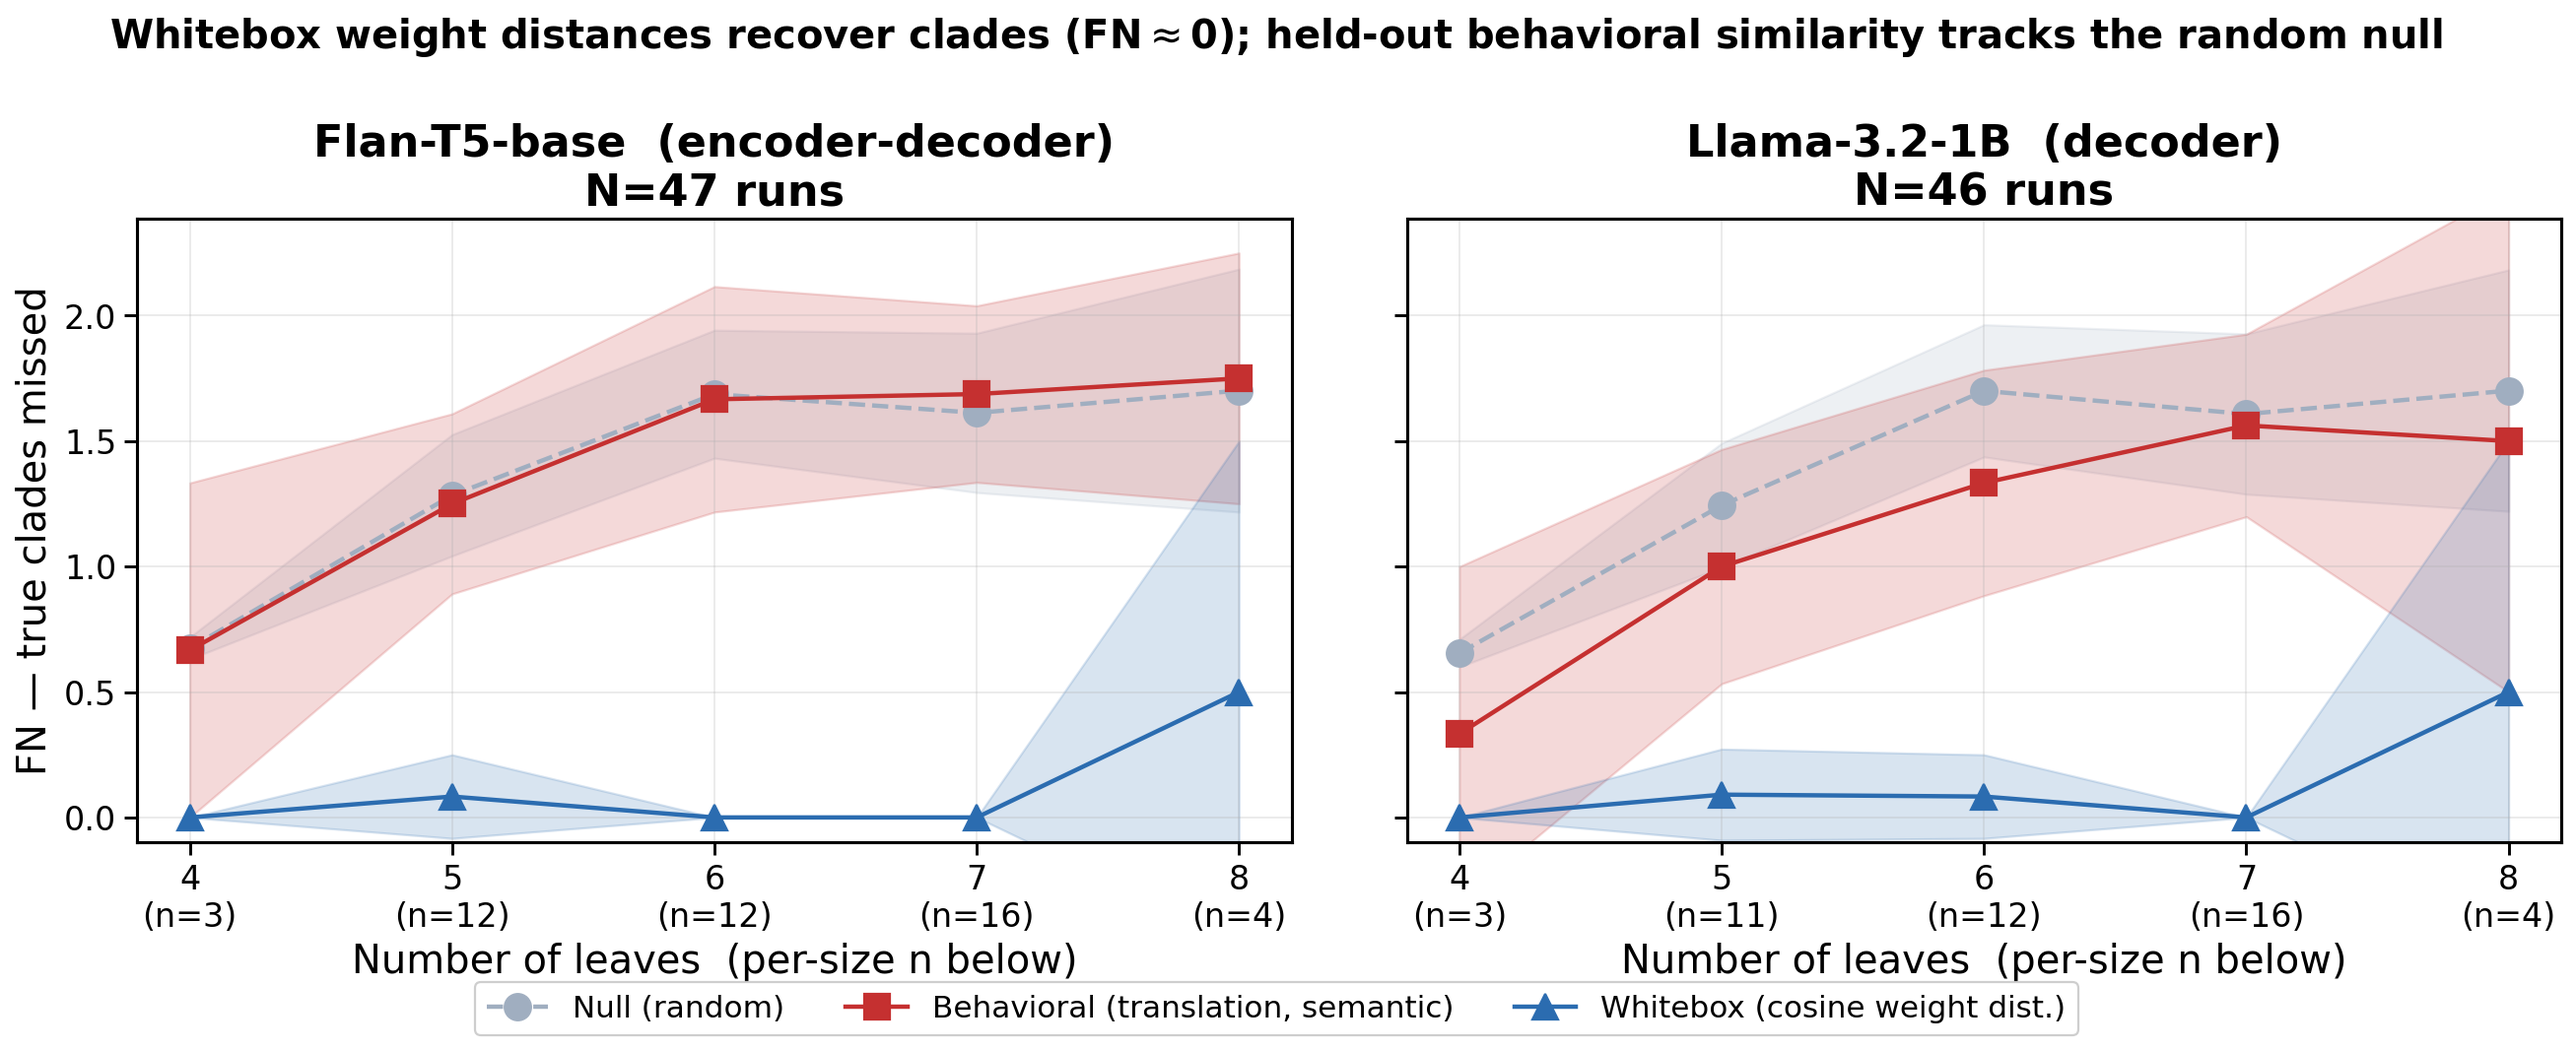
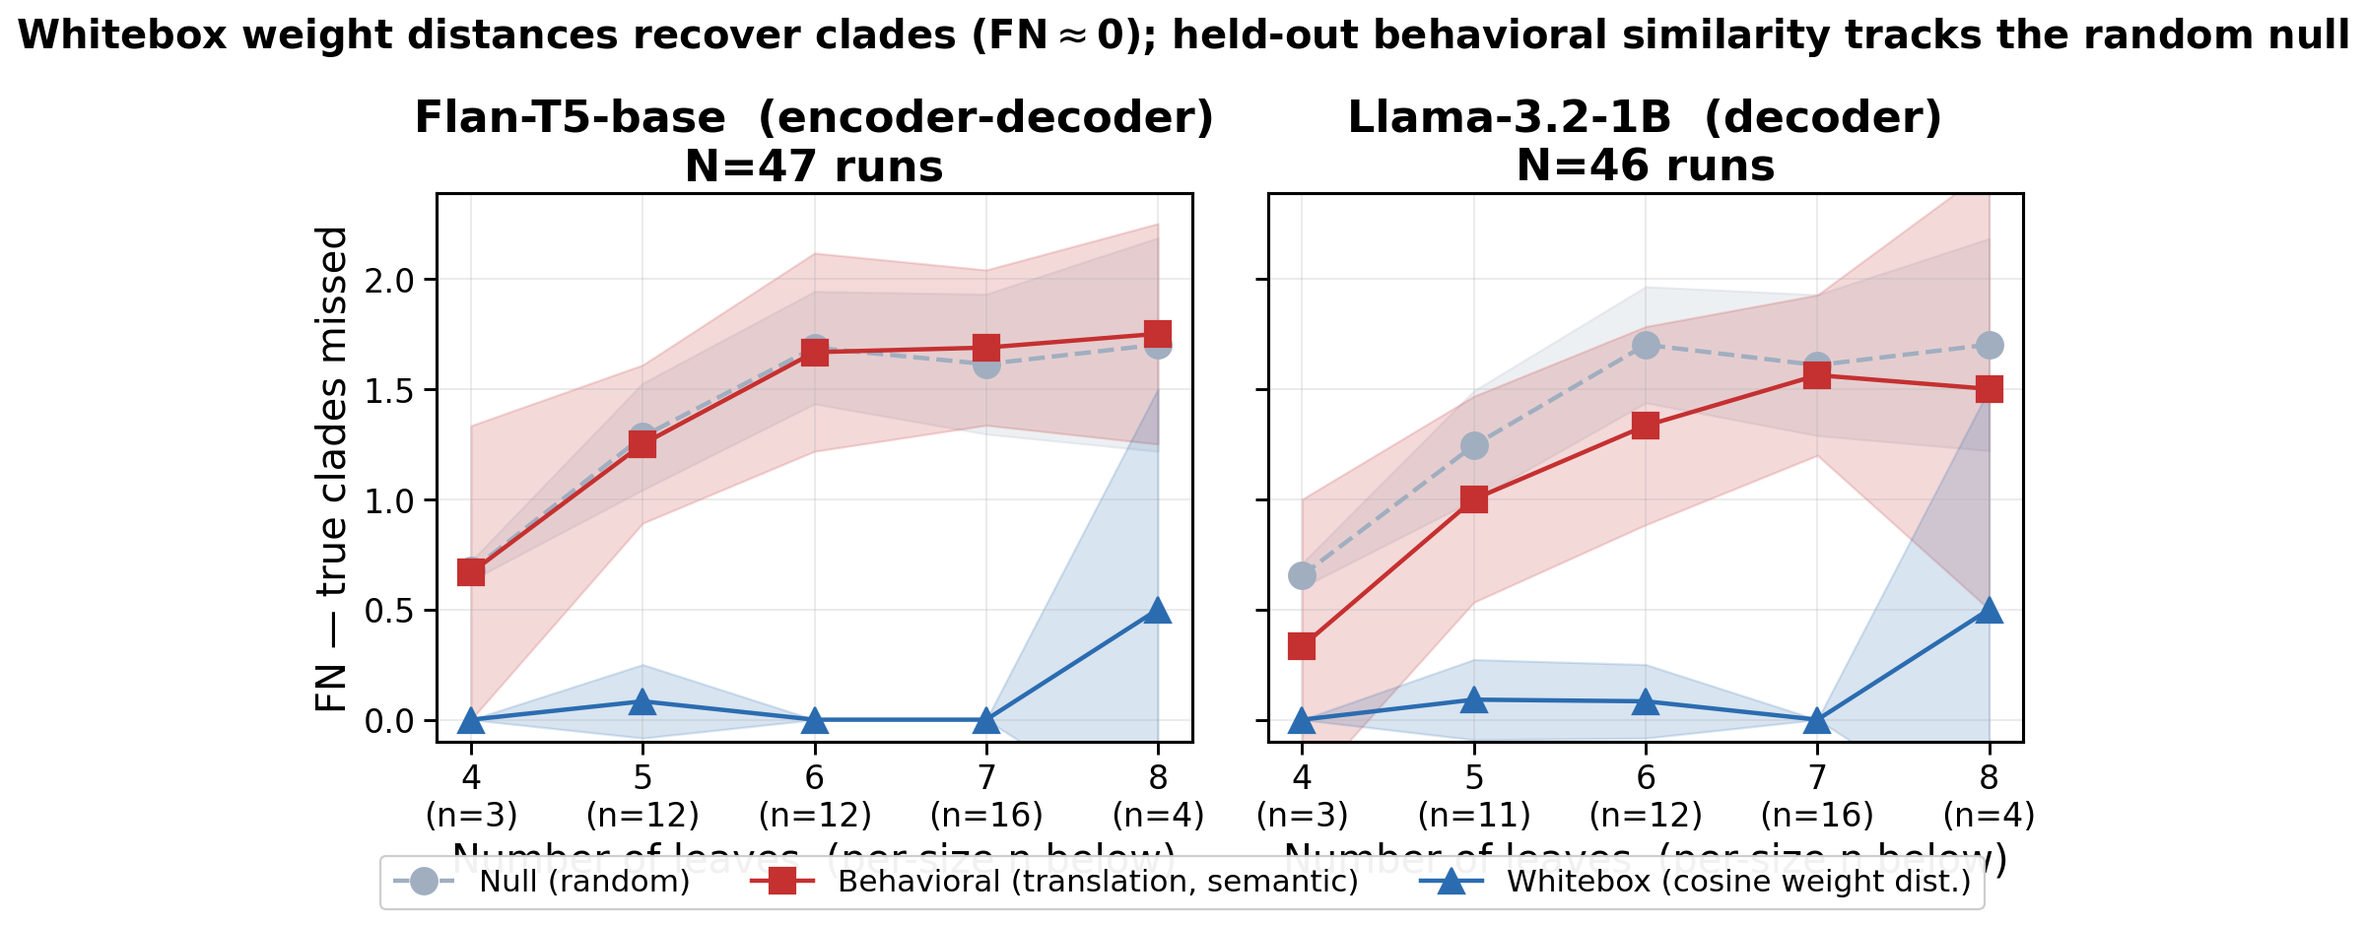
Resize/restyle figures for column-width legibility; remove SNR section; fix layertrace ref

diff --git a/paper_v2.tex b/paper_v2.tex
@@ -652,9 +652,9 @@ full weight    & 282 tensors & \multicolumn{5}{l}{FN $0.33 \pm 0.19$ (reference)
     so that neighbor-joining provably recovers a split once the margin exceeds $1$ (Atteson, 1999;
     dashed line). The margin both separates the regimes and supplies the \emph{within}-regime gradient
     that coherence cannot, since $c$ saturates near $0.99$ across the entire recovering cluster: rank
-    correlation with recovery is $\rho=+0.90$ for the margin versus $+0.77$ for coherence. Stars denote
-    full fine-tuning, circles LoRA; the highlighted star is full-FT Llama-3.2-1B, the decoder condition
-    that clears the low-rank dead zone.}
+    correlation with recovery is $\rho=+0.90$ for the margin versus $+0.77$ for coherence. Colour denotes
+    model family and marker shape the fine-tuning scope (star $=$ full fine-tuning, other shapes the LoRA
+    target set); full-FT Llama-3.2-1B is the decoder condition that clears the low-rank dead zone.}
   \label{fig:coherence_recovery}
 \end{figure}
 
